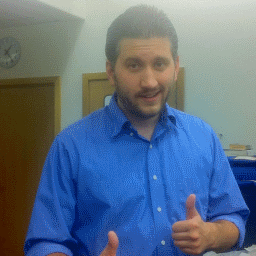
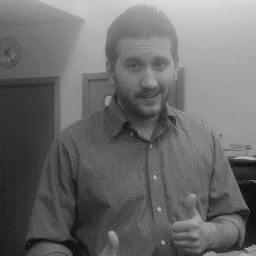
Apple meta tag and b&w aesthetic

diff --git a/_layouts/layout.html b/_layouts/layout.html
@@ -3,7 +3,8 @@
 <meta charset="utf-8" />
 <meta http-equiv="X-UA-Compatible" content="IE=edge,chrome=1" />
 <meta name="viewport" content="width=device-width,initial-scale=1.0,maximum-scale=1.0" />
-<title>Brad Czerniak</title>
+<title>{{ page.title }} | Brad Czerniak</title>
+<meta name="apple-mobile-web-app-title" content="bpcz" />
 <meta name="author" content="Brad Czerniak" />
 <meta property="og:title" content="{{ page.title }}" />
 <meta property="og:type" content="website" />
@@ -17,7 +18,6 @@
 <meta property="og:region" content="MI"/>
 <meta property="og:site_name" content="Hawidu" />
 <meta property="og:street-address" content="6751 Anna Dr"/>
-<title>{{ page.title }} | Brad Czerniak</title>
 <link rel="stylesheet" type="text/css" href="//fonts.googleapis.com/css?family=Vollkorn:400italic,400,700" />
 <link rel="stylesheet" type="text/css" href="/deps/styles.css" />
 <link rel="stylesheet" type="text/css" href="/deps/syntax.css" />
